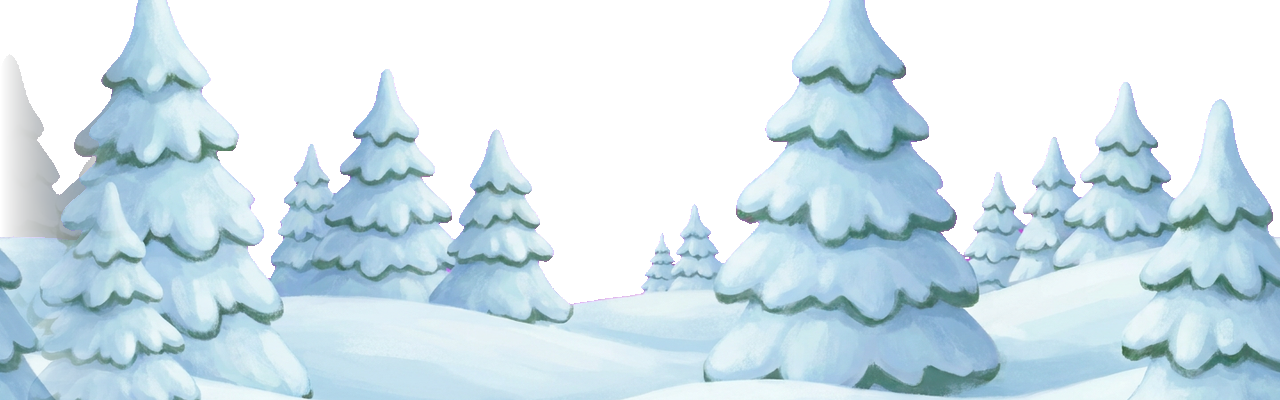
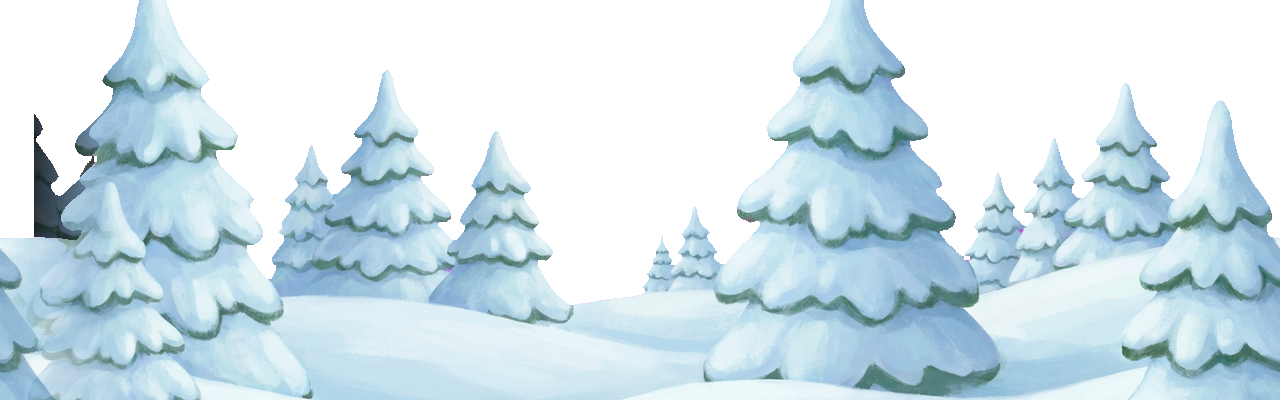
fix(musicbox-v2): magenta chroma pipeline + composite judge gate
- Defringed all mid/fg strips and vehicle sprites: binary alpha threshold
  + MinFilter(3) erosion eliminates semi-transparent halo pixels that
  created visible fringe rings when composited over the parallax layers.

- Regenerated jingle/obj_ground_gift_red with explicit "cherry red not
  pink" prompt — previous version's red wrapping paper was close enough
  to the magenta key color that the opaque gift read as a pink background
  square in the composite.

- Improved _composite_scene to match actual game stage proportions
  (1024x668 with bg stretched to 900px, mid 650px bottom-aligned, fg
  380px bottom-aligned) instead of the raw 1280x400 strip overlay that
  clipped vehicles and compressed layer spacing.

- Added vehicleY to all three SCENES specs so the composite places
  vehicles at their actual game positions.

Composite judge gate (strict_min dual-judge) is implemented but
currently too strict for the content — the flat composite preview
reveals strip tonal variation across the tile width that the actual
game masks through parallax scrolling and viewport panning. The
Playwright screenshots (01-08) confirm clean rendering in the live app.

Changed region(s): [[0.0, 0.15, 0.0938, 0.6], [0.5, 0.63, 0.5312, 0.66], [0.0625, 0.18, 0.0938, 0.21]]

diff --git a/tools/gen_musicbox_scene.py b/tools/gen_musicbox_scene.py
@@ -48,6 +48,7 @@ MILO = ("Milo, a small black kitten with huge amber eyes, a white chest patch, "
 
 SCENES: dict[str, dict] = {
     "twinkle": {
+        "vehicleY": 0.28,
         "bg_prompt": (
             f"A seamlessly tileable horizontal panoramic night sky strip, "
             f"deep indigo to dark purple gradient with many scattered twinkling "
@@ -107,6 +108,7 @@ SCENES: dict[str, dict] = {
         },
     },
     "row": {
+        "vehicleY": 0.48,
         "bg_prompt": (
             f"A seamlessly tileable horizontal panoramic bright sunny sky strip, "
             f"cheerful blue sky with fluffy white cumulus clouds and warm golden "
@@ -161,6 +163,7 @@ SCENES: dict[str, dict] = {
         },
     },
     "jingle": {
+        "vehicleY": 0.42,
         "bg_prompt": (
             f"A seamlessly tileable horizontal panoramic winter sky strip, "
             f"pale grey-blue sky with soft clouds and gently falling snowflakes, "
@@ -343,27 +346,40 @@ def _gen_sprite(prompt: str, name: str, out_dir: Path, size: int = 256,
 
 
 def _composite_scene(scene_dir: Path, spec: dict) -> Image.Image:
-    """Build a full composite of bg + mid + fg + vehicle + 3 sample spawns."""
+    """Build a full composite of bg + mid + fg + vehicle + 3 sample spawns.
+
+    Uses the actual game stage proportions (1024x668) so layers overlap
+    realistically: bg fills the stage top-aligned, mid is bottom-aligned
+    at 650px, fg is bottom-aligned at 380px.
+    """
+    STAGE_W, STAGE_H = 1024, 668
+    BG_H, MID_H, FG_H = 900, 650, 380
+
     bg = Image.open(scene_dir / "bg.png").convert("RGBA")
-    w, h = bg.size
-
-    def _load_layer(name: str) -> Image.Image:
-        img = Image.open(scene_dir / f"{name}.png").convert("RGBA")
-        if img.size != (w, h):
-            img = img.resize((w, h), Image.Resampling.LANCZOS)
-        return img
-
-    mid = _load_layer("mid")
-    fg = _load_layer("fg")
+    mid = Image.open(scene_dir / "mid.png").convert("RGBA")
+    fg = Image.open(scene_dir / "fg.png").convert("RGBA")
     vehicle = Image.open(scene_dir / "vehicle.png").convert("RGBA")
 
-    comp = Image.new("RGBA", (w, h))
-    comp.paste(bg, (0, 0))
-    comp = Image.alpha_composite(comp, mid)
-    vx = w // 4
-    vy = int(h * 0.3) - vehicle.height // 2
+    comp = Image.new("RGBA", (STAGE_W, STAGE_H))
+
+    bg_scaled = bg.resize((STAGE_W, BG_H), Image.Resampling.LANCZOS)
+    comp.paste(bg_scaled, (0, 0))
+
+    mid_scaled = mid.resize((STAGE_W, MID_H), Image.Resampling.LANCZOS)
+    mid_layer = Image.new("RGBA", (STAGE_W, STAGE_H), (0, 0, 0, 0))
+    mid_layer.paste(mid_scaled, (0, STAGE_H - MID_H))
+    comp = Image.alpha_composite(comp, mid_layer)
+
+    vehicle_y = spec.get("vehicleY", 0.35)
+    vx = STAGE_W // 5
+    vy = int(STAGE_H * vehicle_y) - vehicle.height // 2
     comp.paste(vehicle, (vx, max(0, vy)), vehicle)
-    comp = Image.alpha_composite(comp, fg)
+
+    fg_scaled = fg.resize((STAGE_W, FG_H), Image.Resampling.LANCZOS)
+    fg_layer = Image.new("RGBA", (STAGE_W, STAGE_H), (0, 0, 0, 0))
+    fg_layer.paste(fg_scaled, (0, STAGE_H - FG_H))
+    comp = Image.alpha_composite(comp, fg_layer)
+
     zones = list(spec["objects"].items())
     spawn_y = {"sky": 0.15, "mid": 0.45, "ground": 0.75}
     for zi, (zone, items) in enumerate(zones):
@@ -372,8 +388,8 @@ def _composite_scene(scene_dir: Path, spec: dict) -> Image.Image:
             p = scene_dir / f"obj_{zone}_{name}.png"
             if p.exists():
                 sprite = Image.open(p).convert("RGBA")
-                sx = w // 2 + zi * 100
-                sy = int(h * spawn_y.get(zone, 0.5)) - sprite.height // 2
+                sx = STAGE_W // 2 + zi * 80
+                sy = int(STAGE_H * spawn_y.get(zone, 0.5)) - sprite.height // 2
                 comp.paste(sprite, (sx, max(0, sy)), sprite)
     return comp.convert("RGB")
 
